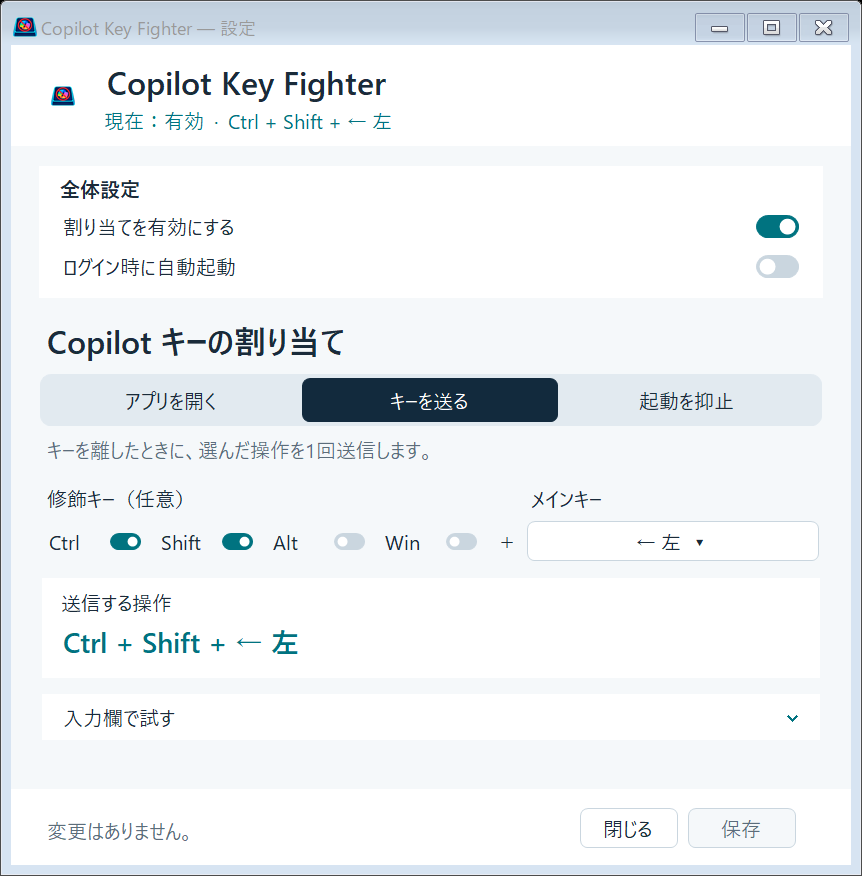
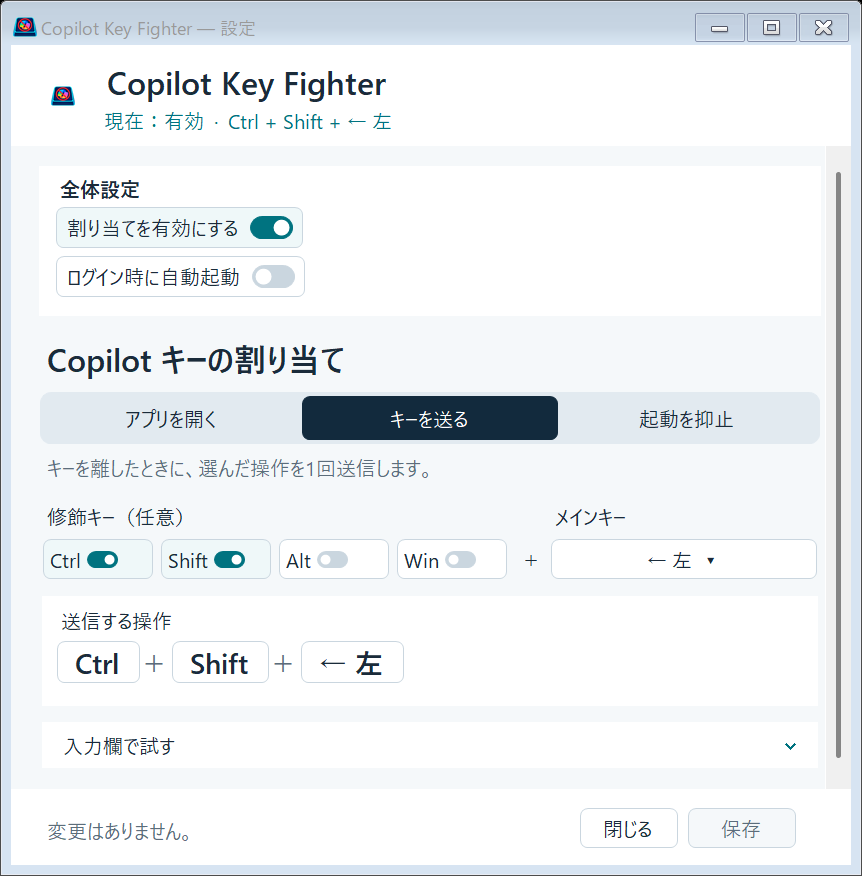
fix: トグルの所属とキー表示を明確にし一覧のスクロール量を制限

diff --git a/src/CopilotKeyFighter/SettingsForm.cs b/src/CopilotKeyFighter/SettingsForm.cs
@@ -3,17 +3,17 @@ using System.Drawing;
 internal sealed class SettingsForm:Form
 {
     readonly Action<Settings> save;
-    readonly UiCheck enabled=new(){Text="割り当てを有効にする",Switch=true,Dock=DockStyle.Fill};
+    readonly UiCheck enabled=new(){Text="割り当てを有効にする",Switch=true,AutoSize=true,Anchor=AnchorStyles.Left,Margin=new Padding(0,0,0,6)};
     readonly ModeSelector action=new();
     readonly UiCheck existing=new(){Text="起動済みなら、そのウィンドウを表示",Dock=DockStyle.Fill};
-    readonly UiCheck startup=new(){Text="ログイン時に自動起動",Switch=true,Dock=DockStyle.Fill};
+    readonly UiCheck startup=new(){Text="ログイン時に自動起動",Switch=true,AutoSize=true,Anchor=AnchorStyles.Left,Margin=new Padding(0,0,0,6)};
     readonly UiCheck ctrl=Chip("Ctrl"),shift=Chip("Shift"),alt=Chip("Alt"),win=Chip("Win");
     readonly TextBox id=new(){ReadOnly=true},arguments=new(),directory=new();
     readonly Label appName=new(){AutoSize=true,Text="アプリを選択してください"};
     readonly Label current=new(){AutoSize=true,Name="CurrentStatus"};
     readonly Label modeHelp=new(){AutoSize=true};
     readonly Label feedback=new(){AutoSize=false,Dock=DockStyle.Fill,TextAlign=ContentAlignment.MiddleLeft,AutoEllipsis=true};
-    readonly Label combination=new(){AutoSize=true};
+    readonly KeyChordView combination=new();
     readonly UiButton chooseKey=new(){Width=250,Text="Delete  ▾",Name="KeyChoice"};
     readonly UiButton chooseApp=new(){Text="アプリを選択",Width=190};
     readonly UiButton tryApp=new(){Text="起動を試す",Width=130};
@@ -129,7 +129,7 @@ internal sealed class SettingsForm:Form
         modeHelp.ForeColor=Visuals.Muted;
         chooseKey.Text=KeyNames.Name(keyCode)+"  ▾";
         chooseKey.AccessibleName="送信するキー："+KeyNames.Name(keyCode);
-        combination.Text=KeyNames.Binding(Read().Binding!);combination.ForeColor=Visuals.Accent;
+        combination.SetBinding(Read().Binding!);
         tryApp.Enabled=target!=null;chooseApp.Text="一覧から選ぶ…";
         apply.Enabled=Dirty;
         ShowFeedback(Dirty?"未保存の変更があります。保存すると適用されます。":"変更はありません。",false);
@@ -178,7 +178,7 @@ internal sealed class SettingsForm:Form
         }
     }
     internal static UiButton Button(string text,EventHandler handler,int width=140){var b=new UiButton{Text=text,Width=width};b.Click+=handler;return b;}
-    static UiCheck Chip(string text)=>new(){Text=text,Chip=true,Width=104,Height=42,Margin=new Padding(0,0,8,0)};
+    static UiCheck Chip(string text)=>new(){Text=text,Chip=true,Width=112,Height=42,Margin=new Padding(0,0,6,0)};
     internal static TableLayoutPanel Grid()=>new(){ColumnCount=1,AutoSize=true,AutoSizeMode=AutoSizeMode.GrowAndShrink,Dock=DockStyle.Top};
     internal static FlowLayoutPanel Row()=>new(){AutoSize=true,Dock=DockStyle.Fill,WrapContents=true,Margin=new Padding(0,4,0,8)};
     internal static void Add(TableLayoutPanel p,Control c){p.RowStyles.Add(new RowStyle(SizeType.AutoSize));p.Controls.Add(c,0,p.RowCount++);}

diff --git a/src/CopilotKeyFighter/Visuals.cs b/src/CopilotKeyFighter/Visuals.cs
@@ -104,6 +104,11 @@ internal sealed class UiCheck:CheckBox
     [DesignerSerializationVisibility(DesignerSerializationVisibility.Hidden)]
     internal bool Switch {get;set;}
     internal UiCheck(){AutoSize=false;Height=34;Width=600;Cursor=Cursors.Hand;SetStyle(ControlStyles.UserPaint|ControlStyles.AllPaintingInWmPaint|ControlStyles.OptimizedDoubleBuffer|ControlStyles.Opaque|ControlStyles.ResizeRedraw,true);}
+    public override Size GetPreferredSize(Size proposedSize)
+    {
+        if(Switch||Chip)return new Size(TextRenderer.MeasureText(Text,Font,Size.Empty,TextFormatFlags.NoPadding).Width+(Chip?30+22:42+36),Math.Max(42,Font.Height+16));
+        return base.GetPreferredSize(proposedSize);
+    }
     protected override void OnPaintBackground(PaintEventArgs e)=>Visuals.PaintCanvas(this,e.Graphics);
     protected override void OnMouseEnter(EventArgs e){hover=true;Invalidate();base.OnMouseEnter(e);}
     protected override void OnMouseLeave(EventArgs e){hover=false;Invalidate();base.OnMouseLeave(e);}
@@ -116,11 +121,15 @@ internal sealed class UiCheck:CheckBox
         if(Chip || Switch)
         {
             int trackWidth=Chip?30:42,trackHeight=Chip?16:22;
-            var track=new Rectangle(Width-trackWidth-6,(Height-trackHeight)/2,trackWidth,trackHeight);
+            int padding=Chip?8:12,gap=Chip?6:12;
+            int textWidth=TextRenderer.MeasureText(Text,Font,Size.Empty,TextFormatFlags.NoPadding).Width;
+            int trackX=Math.Min(Width-trackWidth-padding,padding+textWidth+gap);
+            Visuals.Box(e.Graphics,new Rectangle(1,1,Width-3,Height-3),Checked&&!SystemInformation.HighContrast?Color.FromArgb(239,248,249):Visuals.Surface,Focused?Visuals.Accent:Visuals.Border);
+            var track=new Rectangle(trackX,(Height-trackHeight)/2,trackWidth,trackHeight);
             Visuals.Box(e.Graphics,track,Checked?Visuals.Accent:Visuals.Border,Focused?Visuals.Accent:Checked?Visuals.Accent:Visuals.Border,trackHeight/2);
             int diameter=trackHeight-6;using var knob=new SolidBrush(SystemColors.Window);
             e.Graphics.FillEllipse(knob,Checked?track.Right-diameter-3:track.Left+3,track.Top+3,diameter,diameter);
-            TextRenderer.DrawText(e.Graphics,Text,Font,new Rectangle(Chip?2:0,0,Width-trackWidth-14,Height),Enabled?Visuals.Ink:Visuals.Muted,TextFormatFlags.Left|TextFormatFlags.VerticalCenter|TextFormatFlags.EndEllipsis);
+            TextRenderer.DrawText(e.Graphics,Text,Font,new Rectangle(padding,0,Math.Max(0,trackX-padding-gap),Height),Enabled?Visuals.Ink:Visuals.Muted,TextFormatFlags.Left|TextFormatFlags.VerticalCenter|TextFormatFlags.EndEllipsis|TextFormatFlags.NoPadding);
         }
         else
         {

diff --git a/tests/CopilotKeyFighter.Tests/PickerScrollTests.cs b/tests/CopilotKeyFighter.Tests/PickerScrollTests.cs
@@ -1,0 +1,45 @@
+using System.Windows.Forms;
+using Xunit;
+
+[Collection("Desktop")]
+public class PickerScrollTests
+{
+    [Fact]
+    public void WheelMovementIsBoundedAndDirectionChangesDiscardOldRemainder()
+    {
+        var wheel=new WheelSteps();
+        Assert.Equal(-1,wheel.Read(120));Assert.Equal(-1,wheel.Read(720));
+        Assert.Equal(1,wheel.Read(-120));Assert.Equal(1,wheel.Read(-720));
+        Assert.Equal(0,wheel.Read(60));Assert.Equal(-1,wheel.Read(60));
+        Assert.Equal(0,wheel.Read(60));Assert.Equal(0,wheel.Read(-60));
+        Assert.Equal(1,wheel.Read(-60));Assert.Equal(0,wheel.Read(0));
+    }
+
+    [Fact]
+    public async Task NativeWheelMessagesMoveOneRowWithoutChangingSelection()
+    {
+        var complete=new TaskCompletionSource(TaskCreationOptions.RunContinuationsAsynchronously);
+        var thread=new Thread(()=>
+        {
+            try
+            {
+                using var form=new Form();
+                using var list=new SteadyListBox{Dock=DockStyle.Fill};form.Controls.Add(list);
+                list.Items.AddRange(Enumerable.Range(0,100).Select(x=>(object)x).ToArray());
+                form.Show();Application.DoEvents();list.SelectedIndex=10;list.TopIndex=10;
+                var wndProc=typeof(SteadyListBox).GetMethod("WndProc",System.Reflection.BindingFlags.NonPublic|System.Reflection.BindingFlags.Instance)!;
+                void Wheel(int delta){var message=Message.Create(list.Handle,0x20A,(IntPtr)(delta<<16),IntPtr.Zero);wndProc.Invoke(list,new object[]{message});}
+                Wheel(-720);Assert.Equal(11,list.TopIndex);Assert.Equal(10,list.SelectedIndex);
+                Wheel(120);Assert.Equal(10,list.TopIndex);
+                Wheel(-60);Assert.Equal(10,list.TopIndex);Wheel(-60);Assert.Equal(11,list.TopIndex);
+                list.TopIndex=0;Wheel(720);Assert.Equal(0,list.TopIndex);
+                using var chord=new KeyChordView();chord.SetBinding(new(37,true,true));
+                Assert.Equal(new[]{"Ctrl","＋","Shift","＋","← 左"},chord.Controls.Cast<Control>().Select(x=>x.Text));
+                form.Close();complete.SetResult();
+            }
+            catch(Exception e){complete.SetException(e);}
+        }){IsBackground=true};
+        thread.SetApartmentState(ApartmentState.STA);thread.Start();
+        await complete.Task.WaitAsync(TimeSpan.FromSeconds(10));
+    }
+}

diff --git a/src/CopilotKeyFighter/KeyChordView.cs b/src/CopilotKeyFighter/KeyChordView.cs
@@ -1,0 +1,38 @@
+using System.Drawing;
+
+internal sealed class KeyChordView:FlowLayoutPanel
+{
+    KeyBinding? displayed;
+    internal KeyChordView(){AutoSize=true;AutoSizeMode=AutoSizeMode.GrowAndShrink;Dock=DockStyle.Fill;WrapContents=true;AccessibleName="送信するキーの組み合わせ";}
+    internal void SetBinding(KeyBinding binding)
+    {
+        if(displayed==binding)return;
+        displayed=binding;SuspendLayout();
+        while(Controls.Count>0)Controls[0].Dispose();
+        var names=new List<string>();
+        if(binding.Control)names.Add("Ctrl");if(binding.Shift)names.Add("Shift");if(binding.Alt)names.Add("Alt");if(binding.Win)names.Add("Win");
+        names.Add(KeyNames.Name(binding.Key));
+        foreach(string name in names)
+        {
+            if(Controls.Count>0)Controls.Add(new Label{Text="＋",AutoSize=false,Width=30,Height=44,TextAlign=ContentAlignment.MiddleCenter,ForeColor=Visuals.Muted,Margin=Padding.Empty});
+            Controls.Add(new KeyCap(name,Font));
+        }
+        AccessibleDescription=string.Join(" + ",names);ResumeLayout(true);
+    }
+    sealed class KeyCap:Control
+    {
+        internal KeyCap(string text,Font font)
+        {
+            Text=text;Font=font;AccessibleName=text;AccessibleRole=AccessibleRole.StaticText;
+            Width=Math.Max(62,TextRenderer.MeasureText(text,font).Width+24);Height=44;Margin=new Padding(0,0,0,4);
+            SetStyle(ControlStyles.UserPaint|ControlStyles.AllPaintingInWmPaint|ControlStyles.OptimizedDoubleBuffer|ControlStyles.Opaque|ControlStyles.ResizeRedraw,true);
+        }
+        protected override void OnPaintBackground(PaintEventArgs e)=>Visuals.PaintCanvas(this,e.Graphics);
+        protected override void OnPaint(PaintEventArgs e)
+        {
+            Visuals.PaintCanvas(this,e.Graphics);
+            Visuals.Box(e.Graphics,new Rectangle(1,1,Width-3,Height-3),Visuals.Surface,Visuals.Border);
+            TextRenderer.DrawText(e.Graphics,Text,Font,ClientRectangle,Visuals.Ink,TextFormatFlags.HorizontalCenter|TextFormatFlags.VerticalCenter);
+        }
+    }
+}

diff --git a/src/CopilotKeyFighter/Pickers.cs b/src/CopilotKeyFighter/Pickers.cs
@@ -2,7 +2,7 @@ using System.Drawing;
 
 internal sealed class KeyPicker:Form
 {
-    readonly ListBox list=new(){Dock=DockStyle.Fill,IntegralHeight=false,BorderStyle=BorderStyle.None,DrawMode=DrawMode.OwnerDrawFixed,ItemHeight=42};
+    readonly SteadyListBox list=new(){Dock=DockStyle.Fill,IntegralHeight=false,BorderStyle=BorderStyle.None,DrawMode=DrawMode.OwnerDrawFixed,ItemHeight=42};
     readonly TextBox search=new(){PlaceholderText="キー名で検索（Delete、F5、音量など）"};
     readonly UiButton choose=new(){Text="このキーを選択",Width=180,Primary=true};
     readonly Label count=new(){Dock=DockStyle.Bottom,Height=30,ForeColor=Visuals.Muted};
@@ -35,7 +35,7 @@ internal sealed class KeyPicker:Form
 internal sealed class AppPicker:Form
 {
     readonly TextBox search=new(){PlaceholderText="アプリ名で検索"};
-    readonly ListBox list=new(){Dock=DockStyle.Fill,DisplayMember="Name",IntegralHeight=false,BorderStyle=BorderStyle.None,DrawMode=DrawMode.OwnerDrawFixed,ItemHeight=48};
+    readonly SteadyListBox list=new(){Dock=DockStyle.Fill,DisplayMember="Name",IntegralHeight=false,BorderStyle=BorderStyle.None,DrawMode=DrawMode.OwnerDrawFixed,ItemHeight=48};
     readonly Label state=new(){Dock=DockStyle.Bottom,Height=38,Text="アプリを読み込んでいます…",ForeColor=Visuals.Muted};
     readonly UiButton select=new(){Text="このアプリを選択",Width=190,Primary=true,Enabled=false};
     readonly Dictionary<string,Icon> icons=new();

diff --git a/src/CopilotKeyFighter/SteadyListBox.cs b/src/CopilotKeyFighter/SteadyListBox.cs
@@ -1,0 +1,35 @@
+internal sealed class WheelSteps
+{
+    int remainder;
+    internal int Read(int delta)
+    {
+        if(delta==0)return 0;
+        if(remainder!=0&&Math.Sign(remainder)!=Math.Sign(delta))remainder=0;
+        remainder+=delta;
+        if(Math.Abs(remainder)<120)return 0;
+        int step=-Math.Sign(remainder);remainder=0;return step;
+    }
+    internal void Reset()=>remainder=0;
+}
+
+internal sealed class SteadyListBox:ListBox
+{
+    readonly WheelSteps wheel=new();
+    internal void ApplyWheelDelta(int delta)
+    {
+        int step=wheel.Read(delta);
+        if(step==0||Items.Count==0)return;
+        int visible=Math.Max(1,ClientSize.Height/Math.Max(1,ItemHeight));
+        TopIndex=Math.Clamp(TopIndex+step,0,Math.Max(0,Items.Count-visible));
+    }
+    protected override void OnDataSourceChanged(EventArgs e){wheel.Reset();base.OnDataSourceChanged(e);}
+    protected override void WndProc(ref Message m)
+    {
+        if(m.Msg==0x20A)
+        {
+            ApplyWheelDelta(unchecked((short)((long)m.WParam>>16)));
+            m.Result=0;return; // Do not apply native wheel movement a second time.
+        }
+        base.WndProc(ref m);
+    }
+}

diff --git a/docs/technical/ui-hierarchy.md b/docs/technical/ui-hierarchy.md
@@ -22,3 +22,9 @@ AccordionSection は見出しと本文を同じコンテナーで管理する。
 UIテストでは、全体設定のまとまり、メインキーと修飾キーの同じ行への配置、要約とアコーディオンの非重複、開閉による高さ変更、展開時のスクロール、保存の状態管理を確認する。PaintTests は新しいトグルとアコーディオン見出しにも黒い塗り残りのチェックを適用する。
 
 この判断基準は、後続のUIスキル作成時の参照資料として利用できる。現時点ではプロジェクトのUI設計を記録した文書であり、グローバルなスキル自体を作成・変更したものではない。
+
+## ラベルと操作部品の所属
+
+全体設定と修飾キーは、ラベルと隣接したトグルを一つの薄い枠内に描く。全体設定は文字幅に合わせてサイズを決め、横に離れたスイッチとの対応を推測させない。送信する操作は KeyChordView の個別のキー枠で表し、「＋」は枠の間に置く。方向記号は「← 左」のキー枠の内側だけに置き、隣の操作を指す矢印として見せない。
+
+キー・アプリ選択の一覧は SteadyListBox を共有する。ホイールの一イベントを最大1行に制限し、120未満の細かいデルタは積算する。方向反転時には残りを破棄し、独自の慣性・加速を追加しない。標準処理との二重スクロールを防ぎ、キーボード選択とスクロールバーのドラッグは維持する。Windowsや入力機器がイベントを多く送る場合は、その回数に応じて移動する。

diff --git a/docs/verification.md b/docs/verification.md
@@ -77,3 +77,9 @@ User screenshots showed black checkbox backgrounds and unpainted button corners 
 
 The three modes were reviewed after grouping global settings separately. App-selection methods share a row; test launch is separated at its right. Modifier switches and the main key share a row with a plus sign; the output summary has an explicit label and no transformation arrow. Flat accordion headers reserve a separate chevron area. Expanded key-test and advanced-app content were rendered at the bottom scroll position to verify access. UI tests cover grouping, same-row chord layout, expansion height, non-overlap, scrollbar availability and Save visibility. Paint coverage now includes global toggles and disclosure headers.
 
+### 2026-09-15 toggle grouping and predictable picker scrolling
+
+Toggle labels and tracks now share an outline and adjacent placement. The key summary uses individual keycaps separated by plus signs. The keyboard page was rendered with Ctrl + Shift + Left. Tests exercise real list controls with WM_MOUSEWHEEL messages, checking one-row movement for both ordinary and large deltas, fractional accumulation, direction changes, the top boundary and unchanged selection. Physical mouse/touchpad feel remains a user check; the application adds no inertia and caps each delivered wheel event to one row.
+
+
+All 29 tests passed, including native Delete delivery and modifier release. Debug build completed with zero warnings and errors. Expanded key-test content and the key picker were rendered for inspection.
